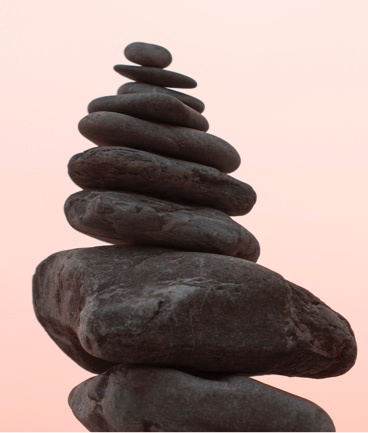
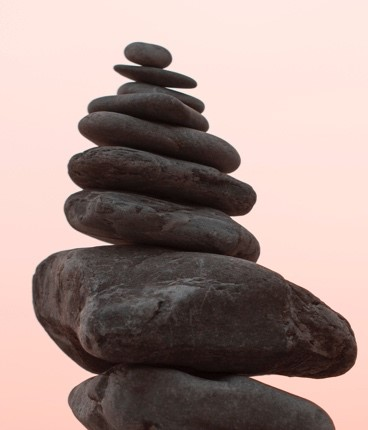
updated sidebar image with cropped version to remove white bottom border

diff --git a/blog.html b/blog.html
@@ -45,7 +45,7 @@
             </div>
             <aside class="missionAside">
                 <div>
-                    <img src="/assets/sidebar-image.jpg" alt="smooth grey stones stacked on one another from large to small at the top">
+                    <img src="../assets/sidebar-image.jpg" alt="smooth grey stones stacked on one another from large to small at the top">
                 </div>
                 <div>
                     <h3>Our mission</h3>
